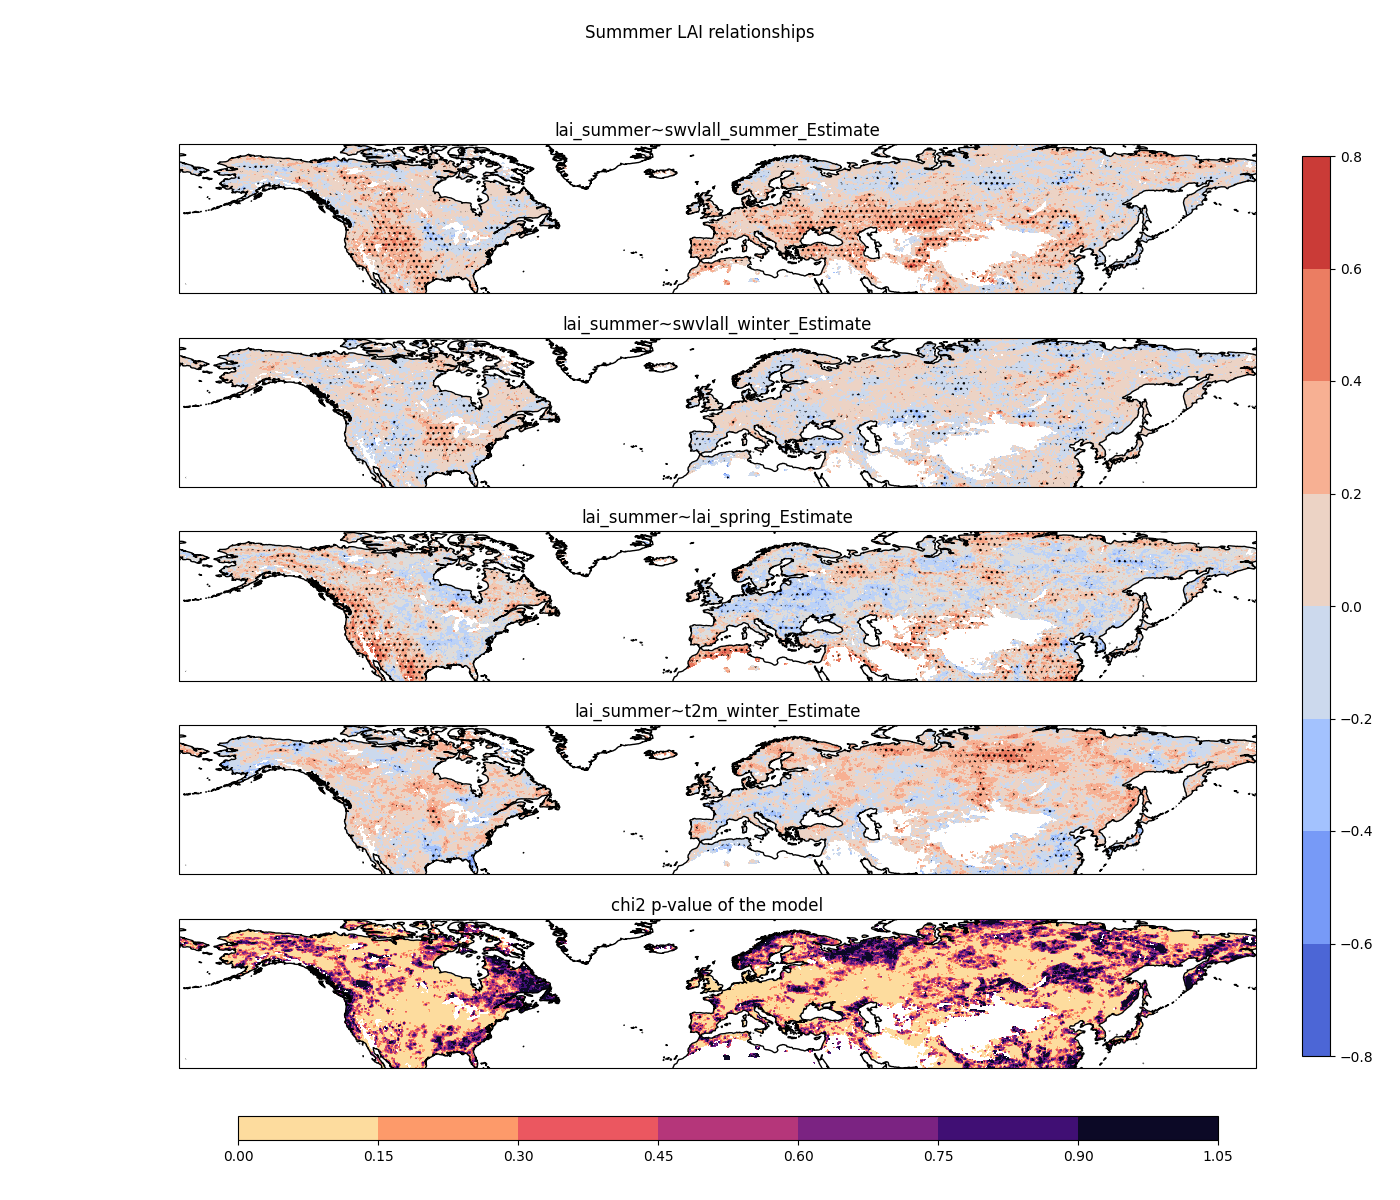
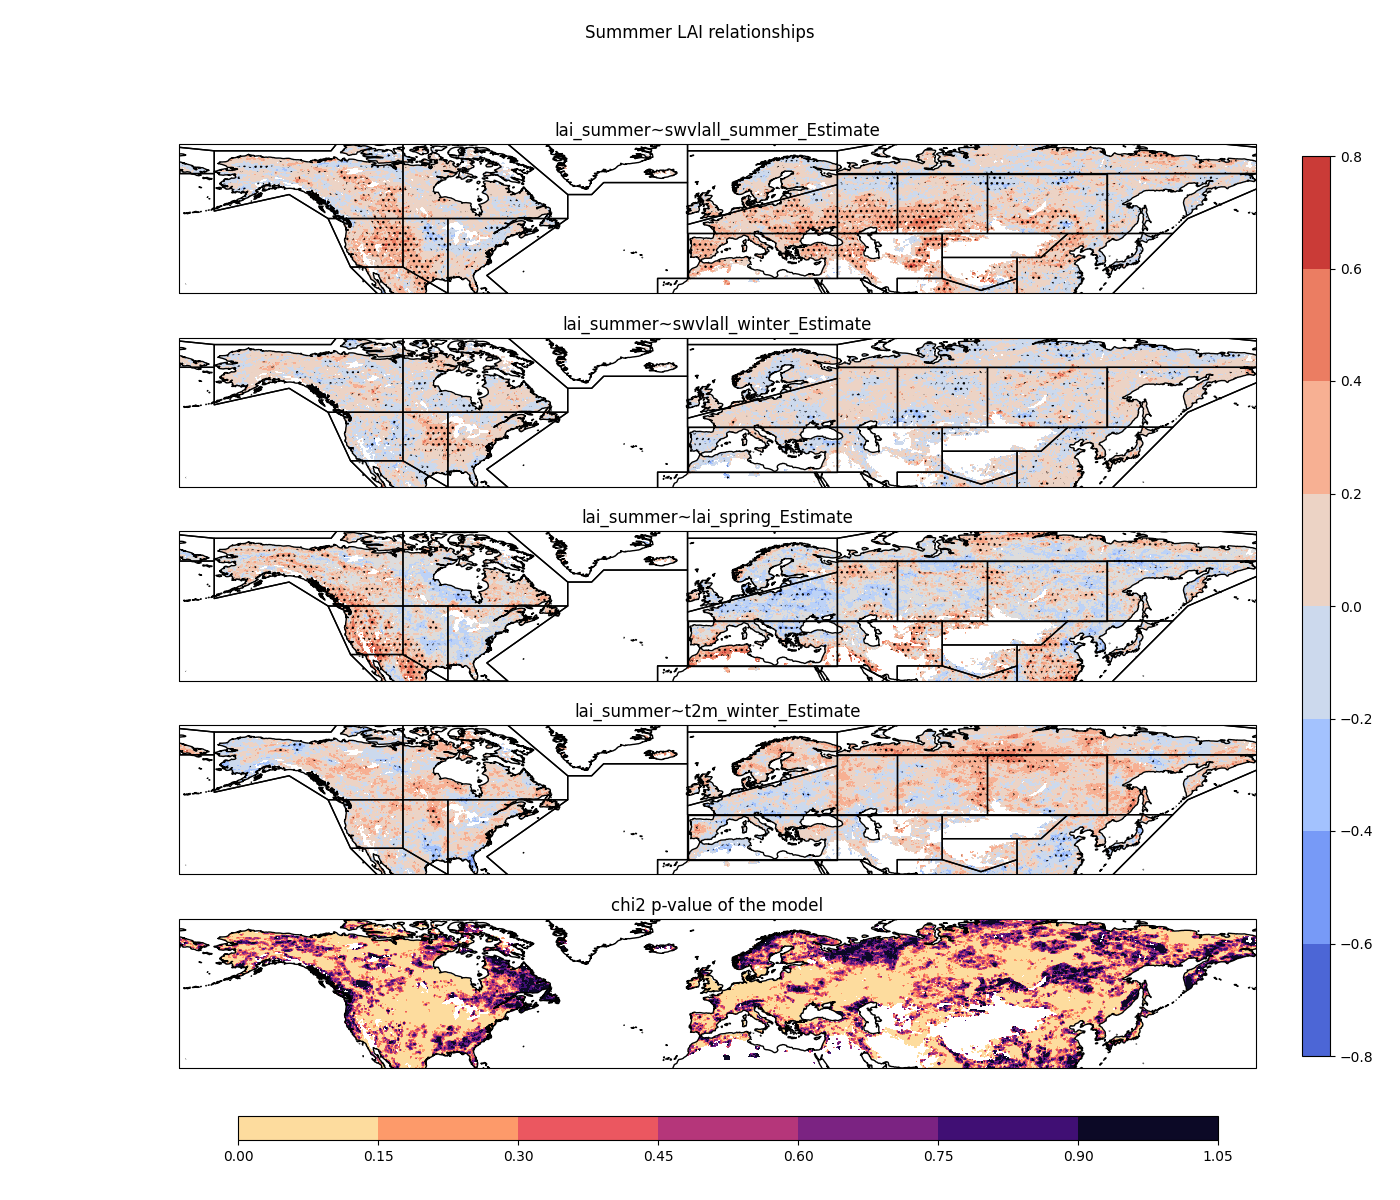
added shapefile code for climate regions

diff --git a/pcv/map.py b/pcv/map.py
@@ -16,14 +16,19 @@
 
 # Script for all the plots
 import cartopy.crs as ccrs
-import cartopy as cp
+import cartopy.feature as cf
+from cartopy.feature import ShapelyFeature
 import matplotlib.pyplot as plt
 import numpy as np
+import cartopy.io.shapereader as shpreader
+from pcv.cfg import IPCC_REGION_SHPFILE 
+
 
 class SEMMap(object):
     def __init__(self, sem_data) -> None:
         self.sem_data = sem_data
-    
+        self.ipcc_regions = shpreader.Reader(IPCC_REGION_SHPFILE)
+
     def lai_summer_map(self, fpath):
         
         lon = self.sem_data.lon.values
@@ -36,12 +41,16 @@ class SEMMap(object):
         fig, ax = plt.subplots(n_plots+1, 1, figsize = (14, 3*n_plots), 
                 subplot_kw={'projection': ccrs.PlateCarree()})
 
+        shape_feature_list = self._generate_shape_feature()
+            
         for i, name in enumerate(name_list):
             valE = self.sem_data[name][:,:].to_numpy()
             valP = self.sem_data[name.replace("Estimate", "p-value")].to_numpy()
 
             cs1 = ax[i].contourf(lon, lat, valE, cmap='coolwarm',  transform=ccrs.PlateCarree())
             ax[i].contourf(lon, lat, valP, levels=[0, 0.05, 1.0],  hatches = ["...", ""], alpha=0)
+            self._add_features(ax[i], shape_feature_list)
+
             ax[i].coastlines()
             ax[i].set_title(name)
 
@@ -59,3 +68,15 @@ class SEMMap(object):
         plt.subplots_adjust(hspace=0.3)
         plt.suptitle("Summmer LAI relationships")
         plt.savefig(fpath)
+
+    def _add_features(self, ax, shape_feature_list):
+        for shape_feature in shape_feature_list:
+            ax.add_feature(shape_feature)
+
+    def _generate_shape_feature(self):
+        shape_feature_list = []
+        for i, records in enumerate(self.ipcc_regions.records()):
+            shape_feature = ShapelyFeature([records.geometry], ccrs.PlateCarree(), facecolor = "None", edgecolor='black', lw=1)
+            shape_feature_list.append(shape_feature)
+        
+        return shape_feature_list

diff --git a/pcv/cfg.py b/pcv/cfg.py
@@ -1,0 +1,19 @@
+#!/usr/bin/env python3
+# -*- coding: utf-8 -*-
+# ==========================================================
+# Created by : Mohit Anand
+# Created on : Sun Aug 07 2022 at 6:33:12 PM
+# ==========================================================
+# Created on Sun Aug 07 2022
+# __copyright__ = Copyright (c) 2022, PCV Project
+# __credits__ = [Mohit Anand,]
+# __license__ = Private
+# __version__ = 0.0.0
+# __maintainer__ = Mohit Anand
+# __email__ = itsmohitanand@gmail.com
+# __status__ = Development
+# ==========================================================
+
+# Place for all constants
+
+IPCC_REGION_SHPFILE = "/data/compoundx/IPCC-WGI-reference-regions-v4_shapefile/IPCC-WGI-reference-regions-v4.shp"
